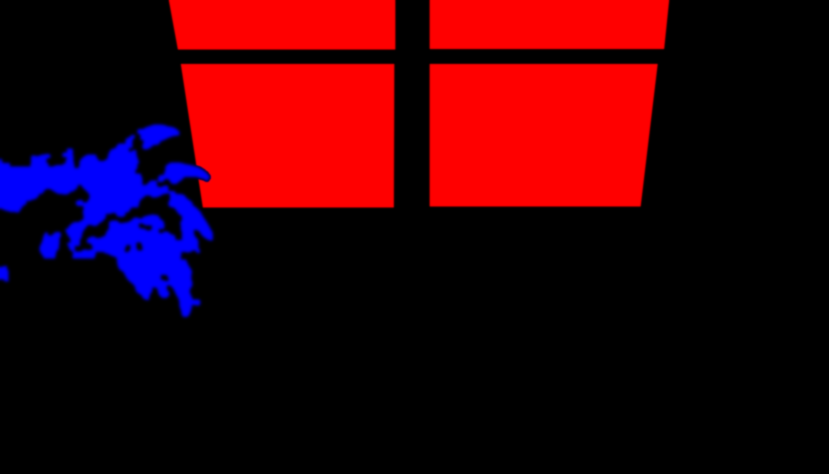
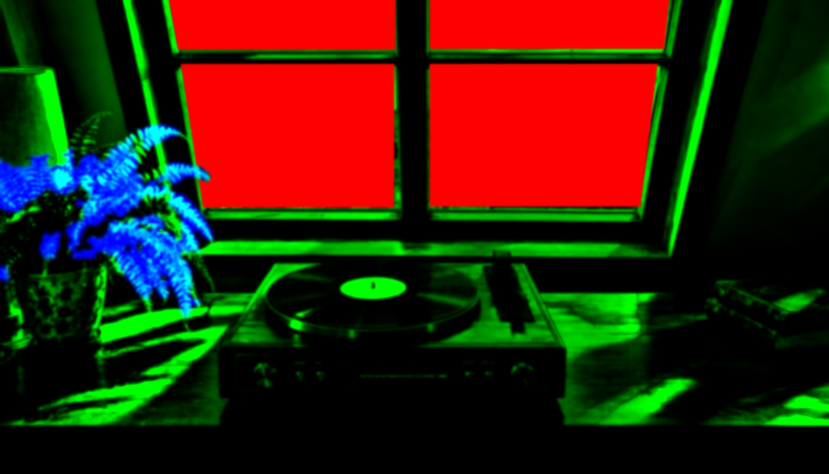
Add files via upload

diff --git a/index.html b/index.html
@@ -394,6 +394,8 @@ const SCENES = {
             [[860,0],[1338,0],[1328,97],[860,97]], [[860,128],[1315,128],[1281,412],[860,412]]],
     plant: [[355,235],[420,215],[470,300],[480,420],[355,420]],
     lamp1: [55, 255, .5], lamp2: [0, 0, 0], curtain: 0, dark: .3, lampK: .45,
+    // aynı kadrajın sabah ve öğle görselleri: zamana göre akşam görseliyle karışır
+    variants: ['scene2m.webp', 'scene2d.webp', 'disc2m.webp', 'disc2d.webp', 'sheen2m.png', 'sheen2d.png', 'arm2d.png'],
     fogRect: [338, 0, 1000, 416], cup: [1285, 714, 185], cone: [1462, 458, 132, 136],
     focus: [760, 560], cine: [0, 0, 1420, 830], waveY: 755,
     spots: [[545, 515, 960, 660, .45], [340, 425, 1330, 470, .4], [440, 690, 1120, 790, .9], [0, 650, 430, 948, .4], [1140, 620, 1659, 948, .4]],
@@ -498,6 +500,9 @@ precision highp float;
 in vec2 vP;
 out vec4 outC;
 uniform sampler2D uScene, uMaps, uDisc, uLabel, uSheen, uArm, uCup, uCone, uFogTex;
+uniform sampler2D uSceneM, uSceneD, uDiscM, uDiscD, uSheenM, uSheenD, uArmD;
+uniform vec3 uWv;          // akşam, sabah, öğle görsellerinin ağırlığı
+uniform float uSunImg;     // görselde güneş lekesi var mı (güneşli görsellerin ağırlığı)
 uniform float uFogA;
 uniform float uCoffee, uBass;
 uniform float uT, uRot, uArmA, uArmLift, uKe;
@@ -511,6 +516,7 @@ uniform vec4 SHB, ARMB, uFogRect, uConeR;
 uniform vec3 uL1, uL2, uCupS;
 
 // ters kenarlarda da tanımlı smoothstep (mobil GPU'larda güvenli)
+vec4 sceneTex(vec2 uv){ return texture(uScene, uv) * uWv.x + texture(uSceneM, uv) * uWv.y + texture(uSceneD, uv) * uWv.z; }
 float sst(float a, float b, float x){ float t = clamp((x - a) / (b - a), 0., 1.); return t * t * (3. - 2. * t); }
 float hash(vec2 p){ p = fract(p * vec2(123.34, 456.21)); p += dot(p, p + 45.32); return fract(p.x * p.y); }
 float noise(vec2 p){ vec2 i = floor(p), f = fract(p); f = f*f*(3.-2.*f);
@@ -551,7 +557,7 @@ vec3 rainGlass(vec2 p){
 // iç mekan ışığı: güneş lekelerini bastır, ortam rengi, lambalar
 vec3 lightInterior(vec3 c, float sun, vec2 p){
   vec3 alb = c;
-  c *= 1. - sun * (1. - uDay) * .82;
+  c *= 1. - sun * (1. - uDay) * .82 * uSunImg;
   c *= uAmb;
   float d1 = length((p - uL1.xy) * vec2(1., 1.2));
   float f1 = uL1.z / (1. + pow(d1 / 640., 2.));
@@ -602,12 +608,12 @@ void main(){
     q.y += sin(p.x * .01 + uT * .8) * .35 * uWind * ext;
     if (uRain > .01) { rg = rainGlass(p); q += rg.xy * uRain * ext; }
   }
-  vec3 base = texture(uScene, q / STAGE).rgb;
+  vec3 base = sceneTex(q / STAGE).rgb;
   float br = (uRain * 2.2 + uFog * 3.) * ext;
   if (br > .3) {
     base = (base * 2.
-      + texture(uScene, (q + vec2(br, 0.)) / STAGE).rgb + texture(uScene, (q - vec2(br, 0.)) / STAGE).rgb
-      + texture(uScene, (q + vec2(0., br)) / STAGE).rgb + texture(uScene, (q - vec2(0., br)) / STAGE).rgb) / 6.;
+      + sceneTex((q + vec2(br, 0.)) / STAGE).rgb + sceneTex((q - vec2(br, 0.)) / STAGE).rgb
+      + sceneTex((q + vec2(0., br)) / STAGE).rgb + sceneTex((q - vec2(0., br)) / STAGE).rgb) / 6.;
   }
 
   // ---- dış mekan renk/zaman
@@ -657,13 +663,14 @@ void main(){
   if (r < RR + 2.) {
     float cs = cos(-uRot), sn = sin(-uRot);
     vec2 dr = vec2(cs * d.x - sn * d.y, sn * d.x + cs * d.y);
-    vec4 disc = texture(uDisc, dr / (2. * RR) + .5);
+    vec2 duv = dr / (2. * RR) + .5;
+    vec4 disc = texture(uDisc, duv) * uWv.x + texture(uDiscM, duv) * uWv.y + texture(uDiscD, duv) * uWv.z;
     vec3 rc = mix(base, disc.rgb, disc.a);
     float la = sst(LR + .8, LR - .8, r);
     vec3 lab = texture(uLabel, dr / (2. * LR) + .5).rgb;
     rc = mix(rc, lab, la);
     vec2 sv = (p - SHB.xy) / SHB.zw;
-    vec3 sh = texture(uSheen, sv).rgb * (.18 + .82 * uDay) * (1. - la * .5);
+    vec3 sh = (texture(uSheen, sv).rgb * uWv.x + texture(uSheenM, sv).rgb * uWv.y + texture(uSheenD, sv).rgb * uWv.z) * (.18 + .82 * uDay) * (1. - la * .5);
     rc = 1. - (1. - rc) * (1. - sh);
     float a = max(disc.a, la);
     col = mix(col, lightInterior(rc, 0., p), a);
@@ -689,7 +696,7 @@ void main(){
   vec2 qa = inv * (p + vec2(0., uArmLift) - PIV) + PIV;
   vec2 ua = (qa - ARMB.xy) / ARMB.zw;
   if (all(greaterThan(ua, vec2(0.))) && all(lessThan(ua, vec2(1.)))) {
-    vec4 am = texture(uArm, ua);
+    vec4 am = mix(texture(uArm, ua), texture(uArmD, ua), uWv.y + uWv.z);
     col = mix(col, lightInterior(am.rgb, 0., p), am.a);
   }
 
@@ -1550,6 +1557,9 @@ function computeTarget() {
   for (let i = 0; i < 3; i++) u.amb[i] *= 1 - ov * .16;
   u.lamp = Math.max(u.lamp, ov * .3 * (1 - u.night));     // kapalı havada da lamba yanar
   if (wx.snow) { u.extTint = [u.extTint[0] * .95, u.extTint[1], u.extTint[2] * 1.08]; u.extBright *= 1.12; }
+  // sahnenin zaman görselleri: sabah (dawn), öğle (day), akşam+gece
+  { const sm = (tw.dawn || 0) + (tw.day || 0) + (tw.dusk || 0) + (tw.night || 0) || 1;
+    u.vM = (tw.dawn || 0) / sm; u.vD = (tw.day || 0) / sm; u.vEve = ((tw.dusk || 0) + (tw.night || 0)) / sm; }
   u.ov = ov;   // bulutluluk: güneşe ve gökyüzüne bağlı efektler bunu okur
   u.rain = Math.min(1.3, wx.rain || 0); u.snow = wx.snow || 0; u.fog = wx.fog || 0; u.wind = wx.wind || 0; u.storm = wx.storm || 0;
   // gizli kahve molası: masaya bir fincan gelir, oda hafifçe ısınır
@@ -1701,12 +1711,18 @@ function stepAutoViz(dt) {
 const GA_DESC = Object.getOwnPropertyDescriptor(CanvasRenderingContext2D.prototype, 'globalAlpha');
 let vizMul = 1;
 Object.defineProperty(fx, 'globalAlpha', { get() { return GA_DESC.get.call(this); }, set(v) { GA_DESC.set.call(this, v * vizMul); } });
+// cam kırpması iki adım: önce sadece camlar, sonra bitkinin olduğu yer ayrıca çıkarılır
+// (bitki çerçevenin üstüne taşsa bile o alan cam sayılmaz)
 function buildPaneClip() {
   const p = new Path2D();
-  for (const poly of SC.panes.concat([SC.plant])) { p.moveTo(poly[0][0], poly[0][1]); for (const v of poly.slice(1)) p.lineTo(v[0], v[1]); p.closePath(); }
-  return p;
+  for (const poly of SC.panes) { p.moveTo(poly[0][0], poly[0][1]); for (const v of poly.slice(1)) p.lineTo(v[0], v[1]); p.closePath(); }
+  const hole = new Path2D();
+  hole.rect(-100, -100, STAGE_W + 200, STAGE_H + 200);
+  const pl = SC.plant; hole.moveTo(pl[0][0], pl[0][1]); for (const v of pl.slice(1)) hole.lineTo(v[0], v[1]); hole.closePath();
+  return { p, hole };
 }
 let paneClip = buildPaneClip();
+function clipGlass(ctx) { ctx.clip(paneClip.p); ctx.clip(paneClip.hole, 'evenodd'); }
 
 // önceden çizilmiş ışık sprite'ları (her karede gradient üretmemek için)
 function makeOrb(rgb, ring) {
@@ -1764,7 +1780,7 @@ function drawFX(dt) {
   // ---- pencere dışı: yağmur, kar, rüzgarla uçan yapraklar, uzak ışıklar
   const needOut = (c.rain > .02) || (c.snow > .02) || wind > .2 || night > .4;
   if (needOut) {
-    fx.save(); fx.clip(paneClip, 'evenodd');
+    fx.save(); clipGlass(fx);
     if (night > .4) {
       fx.globalCompositeOperation = 'lighter';
       for (const L of cityLights) {
@@ -1822,7 +1838,8 @@ function drawFX(dt) {
   const fn = VIZ_DRAW[vizRun];
   // güneş yoksa (gece ya da kapalı gündüz) güneşe bağlı efektler lamba haline geçer
   const dimN = sunGone(c) ? 1 : night;
-  if (fn) fn(dt, c, SUN_FX.has(vizRun) ? dimN : night, wind);
+  const nightLike = SC.variants ? Math.max(night, (c.vEve || 0) > .5 ? .6 : 0) : night;   // akşam görselinde gece efektleri
+  if (fn) fn(dt, c, SC.sunless ? Math.max(night, .6) : (SUN_FX.has(vizRun) ? dimN : nightLike), wind);
   vizMul = 1;
   fx.globalAlpha = 1; fx.globalCompositeOperation = 'source-over';
   fx.lineCap = 'butt'; fx.shadowBlur = 0;
@@ -2170,7 +2187,7 @@ const candlePools = [
 // gündüz ve gece farklı davranan modların adları da değişir
 // ---- doğa mantığı: hangi efekt hangi koşulda mümkün
 const SUN_FX = new Set(['rays', 'dust', 'leaves', 'prism', 'glints', 'pulse']);   // güneş ister, yoksa lambaya döner
-function sunGone(c) { return (c.night || 0) > .5 || (c.day || 0) < .3; }
+function sunGone(c) { return SC.sunless || (SC.variants && (c.vEve || 0) > .5) || (c.night || 0) > .5 || (c.day || 0) < .3; }
 function overcast(c) { return (c.ov || 0) > .5; }
 function precip(c) { return (c.rain || 0) + (c.snow || 0) + (c.storm || 0) > .3; }
 function badSky(c) { return precip(c) || (c.fog || 0) > .4 || (c.wind || 0) > .5; }
@@ -2181,7 +2198,7 @@ const VIZ_DUAL = {
 };
 function vizLabel(id) {
   if (id === 'auto') return 'Oto · ' + vizLabel(vizRun);
-  const c = atmo.target || atmo.cur || {}, n = (c.night || 0) > .5, dim = sunGone(c);
+  const c = atmo.target || atmo.cur || {}, n = SC.sunless || (SC.variants && (c.vEve || 0) > .5) || (c.night || 0) > .5, dim = sunGone(c);
   switch (id) {
     case 'fireflies': return !n ? 'Polen' : precip(c) ? 'Işık zerreleri' : 'Ateş böceği';
     case 'sky': return n ? (overcast(c) ? 'Şehir ışıkları' : 'Kayan yıldız') : (overcast(c) ? 'Bulutlar' : 'Bulut gölgesi');
@@ -2323,7 +2340,7 @@ const VIZ_DRAW = {
   },
   // Kuşlar (gündüz) / Kayan yıldız (gece)
   sky(dt, c, night) {
-    fx.save(); fx.clip(paneClip, 'evenodd');
+    fx.save(); clipGlass(fx);
     if (overcast(c)) {
       // kapalı hava: yıldız ya da güneş gölgesi olmaz. Gece bulutlara vuran şehir ışığı, gündüz alçaktan geçen bulutlar
       const n = night > .5;
@@ -2382,7 +2399,7 @@ const VIZ_DRAW = {
     const e = levels.energy;
     if (night > .5 && badSky(c)) {
       // fener uçmaz: camdaki damlalar lambanın ışığını küçük bokeh noktaları gibi yakalar
-      fx.save(); fx.clip(paneClip, 'evenodd');
+      fx.save(); clipGlass(fx);
       for (const d of glassLights) {
         d.y += d.v * dt * (Math.random() < .02 ? 6 : 1); if (d.y > 440) { d.y = rnd(-10, 200); d.x = rnd(150, 1220); }
         const b = bands[d.b];
@@ -2395,7 +2412,7 @@ const VIZ_DRAW = {
       // pencerenin ardında süzülerek yükselen kâğıt fenerler
       if (lanterns.length < 18 && Math.random() < dt * (1.1 + e * 3))
         lanterns.push({ x: rnd(180, 1200), y: 450, d: rnd(.45, 1), ph: rnd(0, 6.28), t: 0 });
-      fx.save(); fx.clip(paneClip, 'evenodd');
+      fx.save(); clipGlass(fx);
       const vis = 1 - (c.fog || 0) * .5;
       for (let i = lanterns.length - 1; i >= 0; i--) {
         const L = lanterns[i]; L.t += dt;
@@ -2441,7 +2458,7 @@ const VIZ_DRAW = {
   mirror(dt, c, night) {
     if (overcast(c)) {
       // kapalı havada ay da güneş de yok: cam, odanın sıcak ışıklarını yansıtır
-      fx.save(); fx.clip(paneClip, 'evenodd');
+      fx.save(); clipGlass(fx);
       const n = night > .5, base = n ? .22 : .1;
       for (const r of reflections) {
         const b = bands[r.b];
@@ -2465,7 +2482,7 @@ const VIZ_DRAW = {
       fx.drawImage(POOL_MOON, 420, 470, 620, 230);
       return;
     }
-    fx.save(); fx.clip(paneClip, 'evenodd');
+    fx.save(); clipGlass(fx);
     if (levels.beat && glares.length < 2) glares.push({ t: 0, x0: rnd(-150, 150), w: rnd(50, 110) });
     for (let i = glares.length - 1; i >= 0; i--) {
       const g = glares[i]; g.t += dt; const k = g.t / 1.1;
@@ -2674,12 +2691,20 @@ function setSceneUniforms() {
   gl.uniform3fv(U.uL1, SC.lamp1); gl.uniform3fv(U.uL2, SC.lamp2); gl.uniform1f(U.uCurtK, SC.curtain);
   gl.uniform4fv(U.uFogRect, SC.fogRect); gl.uniform3fv(U.uCupS, SC.cup); gl.uniform4fv(U.uConeR, SC.cone);
   gl.uniform1f(U.uFade, sceneFade);
+  const cc = atmo.cur || {};
+  if (SC.variants) { const e = cc.vEve ?? 1, m = cc.vM || 0, d = cc.vD || 0, t = (e + m + d) || 1; gl.uniform3f(U.uWv, e / t, m / t, d / t); gl.uniform1f(U.uSunImg, (m + d) / t); }
+  else { gl.uniform3f(U.uWv, 1, 0, 0); gl.uniform1f(U.uSunImg, 1); }
 }
 /* ---------- sahne değişimi: oda kararır, yeni oda ışıkla açılır; plak ve müzik kesilmez ---------- */
 let sceneId = 'window', sceneFade = 0, sceneBusy = false, sceneMode = store.get('scene', 'auto');
 const sceneImgs = {};
 async function loadSceneImgs(id) {
-  if (!sceneImgs[id]) sceneImgs[id] = await Promise.all(SCENES[id].files.map(loadImg));
+  if (!sceneImgs[id]) {
+    const sc = SCENES[id];
+    const main = await Promise.all(sc.files.map(loadImg));
+    const v = sc.variants ? await Promise.all(sc.variants.map(loadImg)) : [main[0], main[0], main[2], main[2], main[3], main[3], main[4]];
+    sceneImgs[id] = main.concat(v);
+  }
   return sceneImgs[id];
 }
 function applySceneConfig(id) {
@@ -2696,7 +2721,7 @@ async function setScene(id, instant) {
   try {
     const imgs = await loadSceneImgs(id);
     if (!instant && glReady) await tweenReal(.7, k => { sceneFade = k; fxCanvas.style.opacity = 1 - k; });
-    if (glReady) { const [sc, mp, ds, sh, am] = imgs; updateTex('uScene', sc); updateTex('uMaps', mp); updateTex('uDisc', ds); updateTex('uSheen', sh); updateTex('uArm', am); }
+    if (glReady) bindSceneTex(imgs);
     applySceneConfig(id);
     if (!instant && glReady) await tweenReal(1.2, k => { sceneFade = 1 - k; fxCanvas.style.opacity = k; });
     sceneFade = 0; fxCanvas.style.opacity = 1;
@@ -2709,6 +2734,12 @@ async function setScene(id, instant) {
 function tweenReal(dur, fn) {
   if (document.hidden) { fn(1); return Promise.resolve(); }
   return new Promise(res => { const t0 = performance.now(); const st = (n) => { const k = Math.min(1, (n - t0) / 1000 / dur); fn(ease(k)); if (k < 1) requestAnimationFrame(st); else res(); }; requestAnimationFrame(st); });
+}
+const VAR_TEX = ['uSceneM', 'uSceneD', 'uDiscM', 'uDiscD', 'uSheenM', 'uSheenD', 'uArmD'];
+function bindSceneTex(imgs) {
+  const [sc, mp, ds, sh, am] = imgs;
+  updateTex('uScene', sc); updateTex('uMaps', mp); updateTex('uDisc', ds); updateTex('uSheen', sh); updateTex('uArm', am);
+  VAR_TEX.forEach((n, i) => updateTex(n, imgs[5 + i]));
 }
 function wantedScene() {
   if (sceneMode !== 'auto') return sceneMode;
@@ -3564,7 +3595,8 @@ document.addEventListener('visibilitychange', () => {
   try {
     if (!glInit()) throw new Error('WebGL2 yok');
     const startId = wantedScene();
-    const [scene, maps, disc, sheen, arm] = await loadSceneImgs(startId);
+    const startImgs = await loadSceneImgs(startId);
+    const [scene, maps, disc, sheen, arm] = startImgs;
     applySceneConfig(startId);
     makeTex(0, 'uScene', scene, false);
     makeTex(1, 'uMaps', maps, false);
@@ -3576,6 +3608,7 @@ document.addEventListener('visibilitychange', () => {
     makeTex(6, 'uCup', makeCup(), true);
     makeTex(7, 'uCone', makeCone(), true);
     makeTex(8, 'uFogTex', fogOutCv, false);
+    VAR_TEX.forEach((n, i) => makeTex(9 + i, n, startImgs[5 + i], /Disc|Arm/.test(n)));
     glReady = true;
   } catch (e) {
     console.error(e);

diff --git a/sw.js b/sw.js
@@ -1,6 +1,6 @@
 // Plakçı service worker
 // ÖNEMLİ: her güncellemede CACHE_NAME'deki sürüm numarasını artır (v1 -> v2 ...)
-const CACHE_NAME = 'plakci-v34';
+const CACHE_NAME = 'plakci-v37';
 
 const SHELL = [
   './',
@@ -16,6 +16,13 @@ const SHELL = [
   './disc2.webp',
   './sheen2.png',
   './arm2.png',
+  './scene2m.webp',
+  './scene2d.webp',
+  './disc2m.webp',
+  './disc2d.webp',
+  './sheen2m.png',
+  './sheen2d.png',
+  './arm2d.png',
   './icon-192.png',
   './icon-512.png',
   './icon-maskable-512.png'
